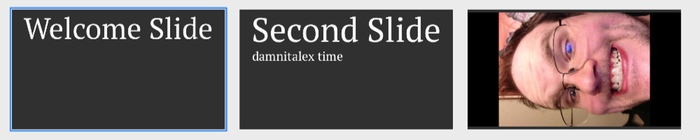
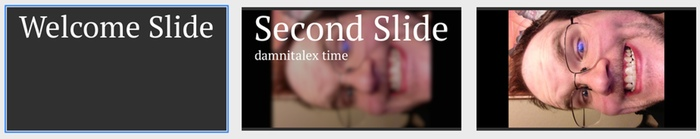
updating deckset example

diff --git a/_posts/2014-05-10-Atom_editor.md b/_posts/2014-05-10-Atom_editor.md
@@ -54,6 +54,8 @@ Exmple 3 slide Deckset markdown:
 
 ## [damnitalex](http://damnitalex.com) time
 
+![fit](http://damnitalex.com/images/photo.JPG)
+
 ---
 
 ![fit](http://damnitalex.com/images/photo.JPG)

diff --git a/random/deckset-example.md b/random/deckset-example.md
@@ -6,6 +6,8 @@
 
 ## [damnitalex](http://damnitalex.com) time
 
+![fit](http://damnitalex.com/images/photo.JPG)
+
 ---
 
 ![fit](http://damnitalex.com/images/photo.JPG)
